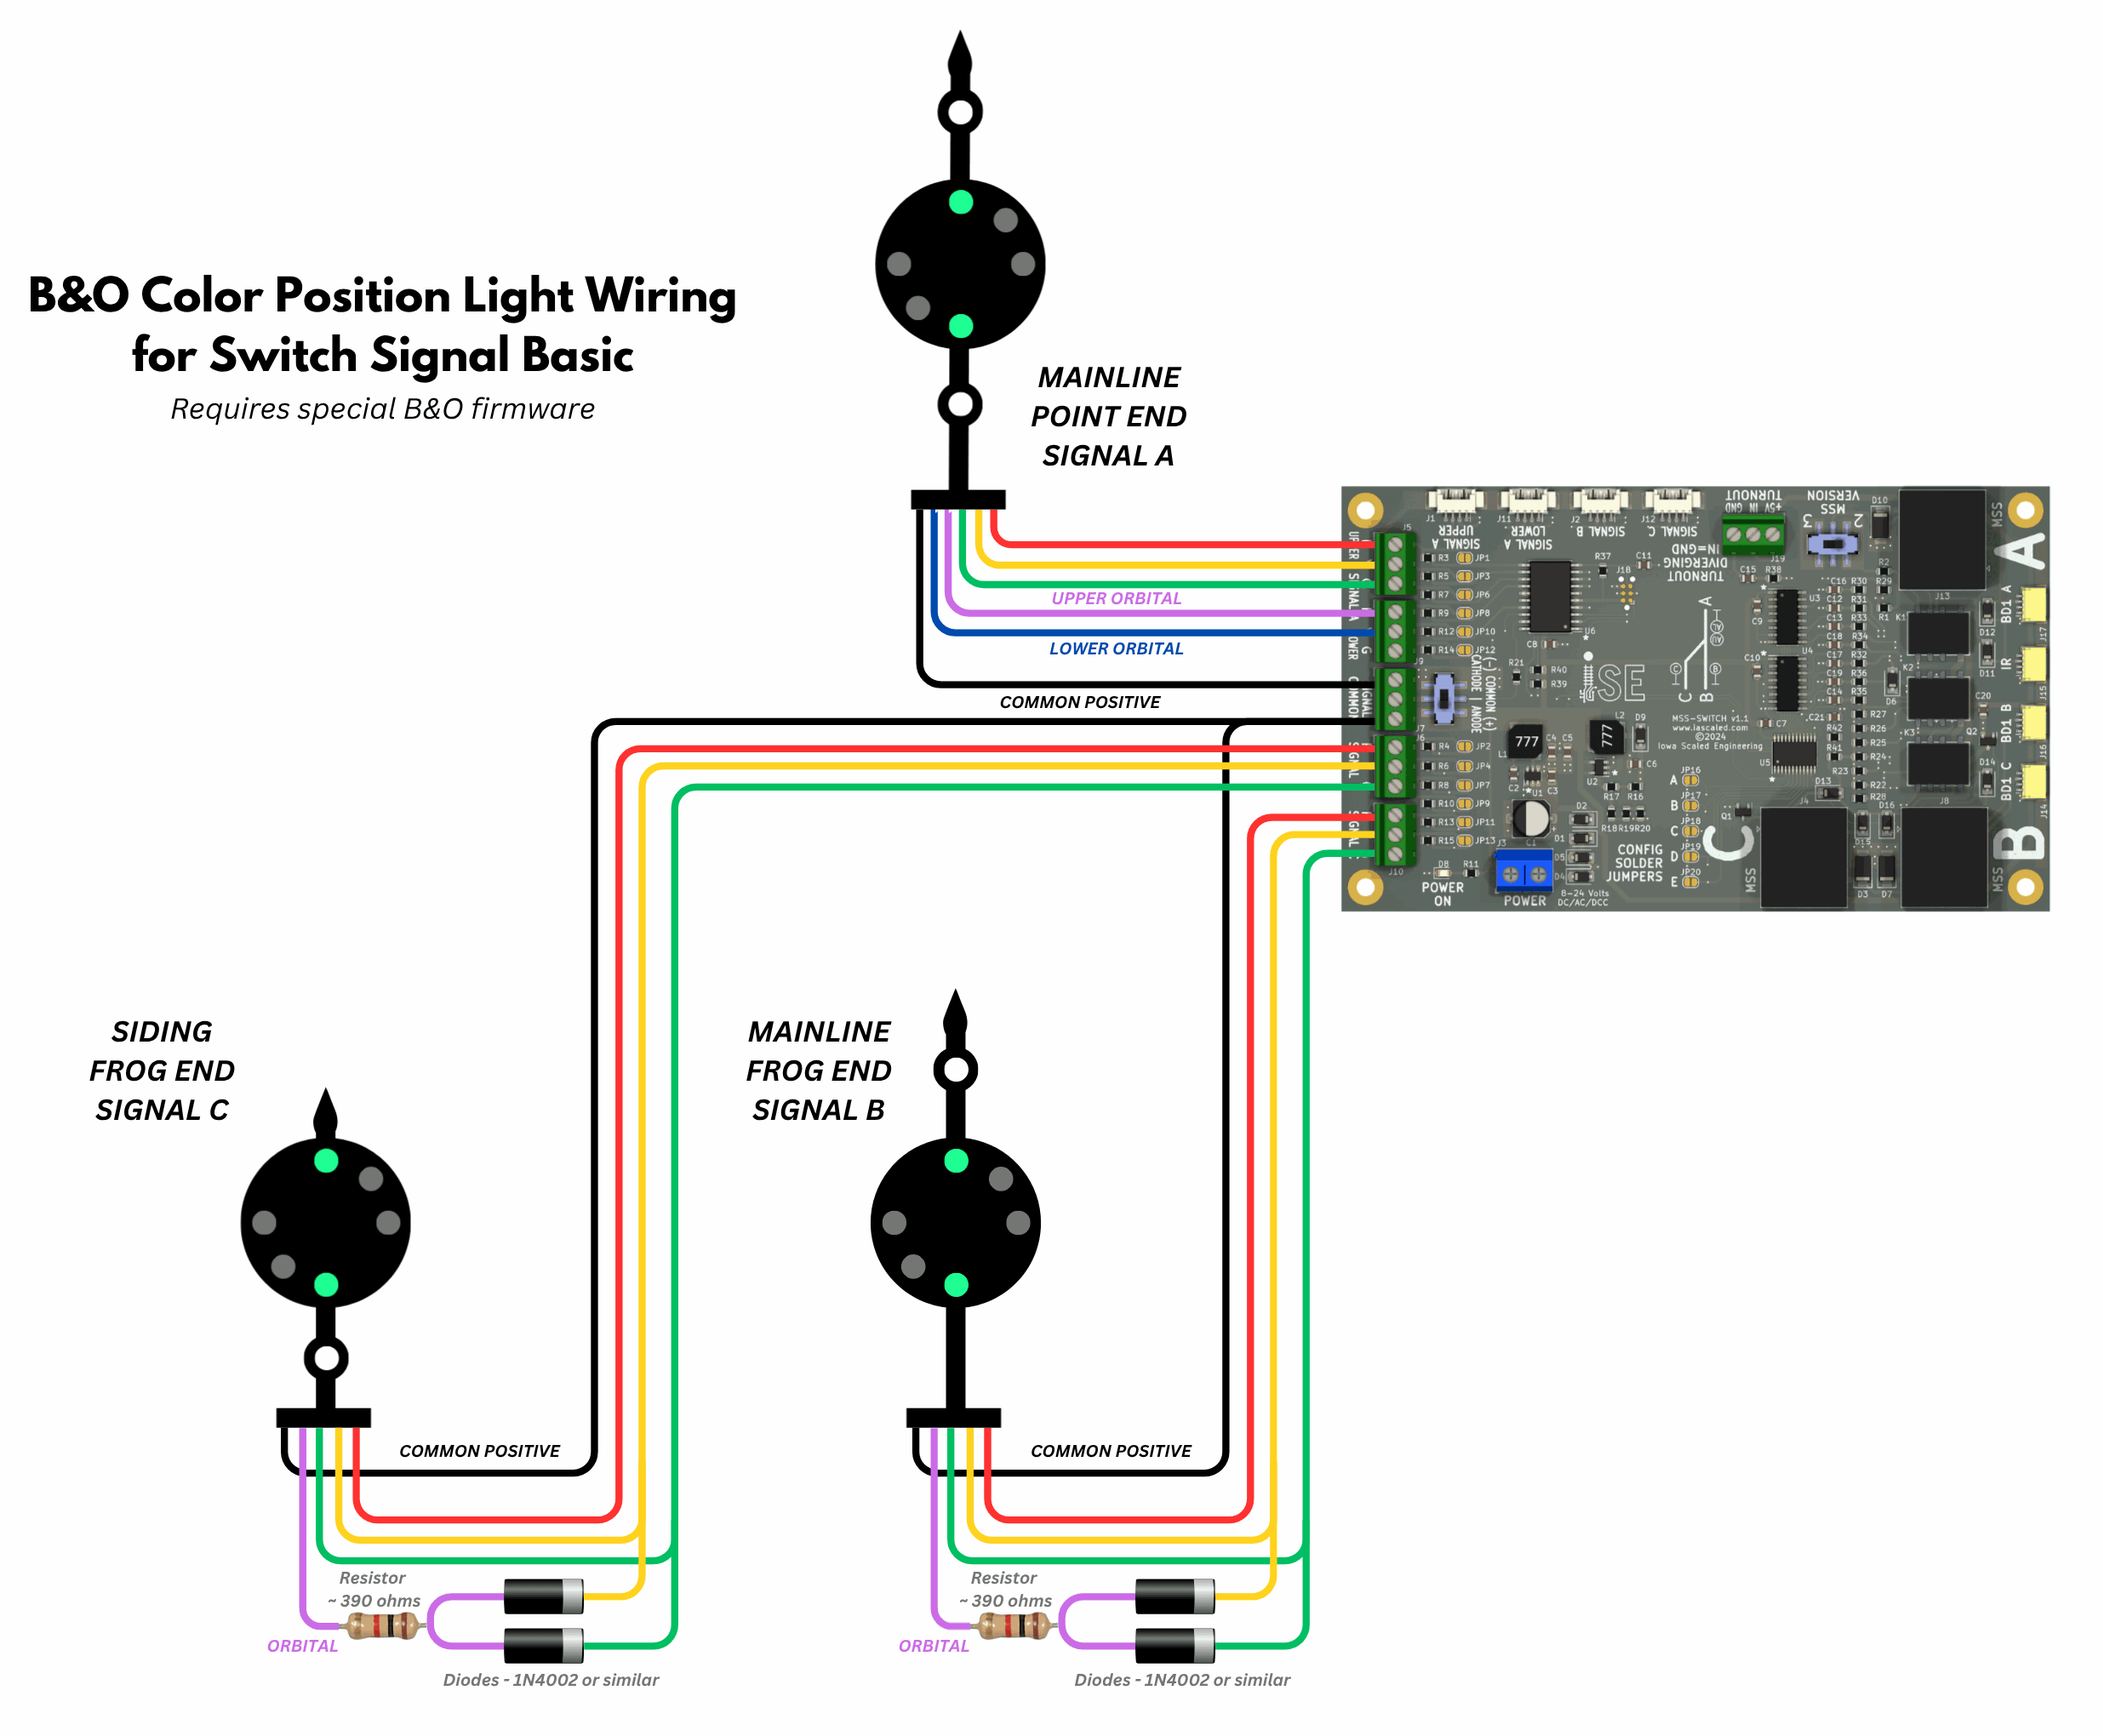
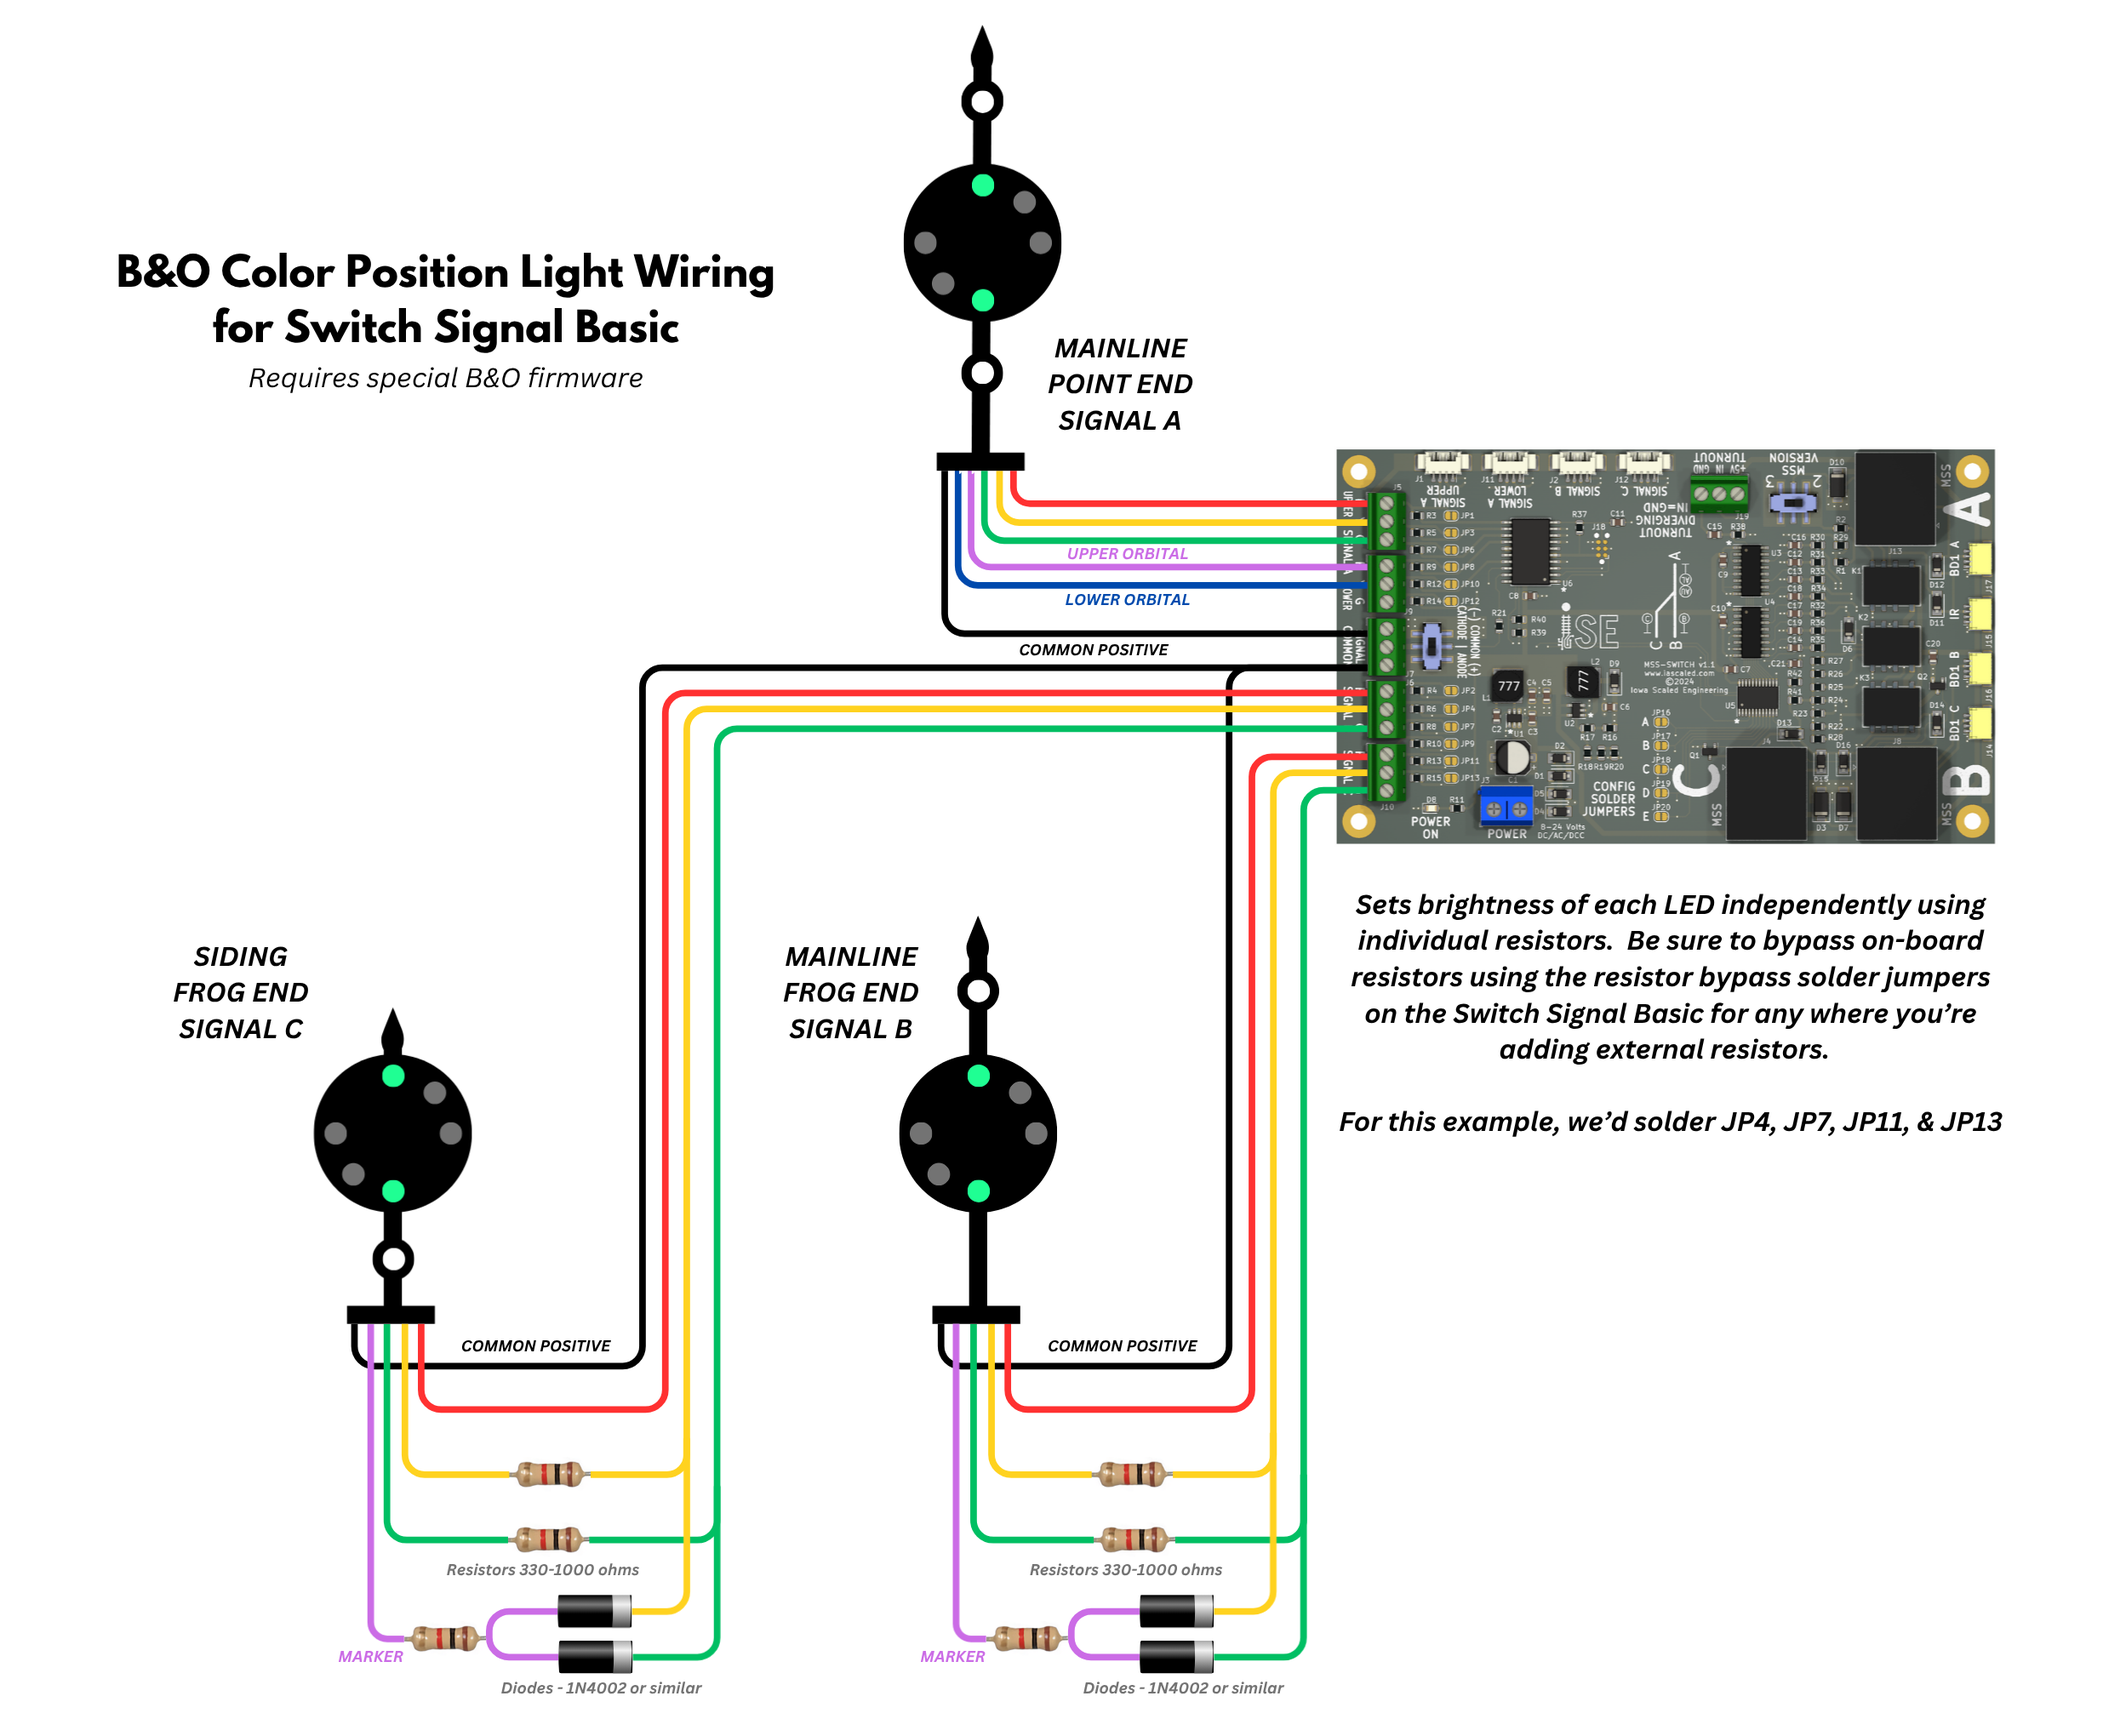
CPL cleanup

diff --git a/docs/SimpleSig/Articles/bo-cpls.md b/docs/SimpleSig/Articles/bo-cpls.md
@@ -7,7 +7,7 @@ title: B&O Color Position Lights
 
 [![A B&O Color Position Light](img-bocpl/bo-cpl.jpg){ align="right" width="300"}](img-bocpl/bo-cpl.jpg)
 
-Western US and Canadian railroads tended to use fairly consistent signaling.  The individual indications for a set of might be different, but in general the actual signal technology was relatively common - one to three signal heads on a mast, each displaying a color, and the stack-up of colors translated into a rule the crew needed to follow.  
+Western US and Canadian railroads tended to use fairly consistent signaling.  The individual indications for a road might be a little different from the next, but the actual signal technology was relatively common among them - one to three signal heads on a mast, each displaying a color, and the stack-up of colors translated into a rule the crew needed to follow.  
 
 However, the eastern US brought forth three unusual systems, each of which used heads with multiple lights on and around a target, known as a "position light signal" for obvious reasons.  Multiple lights were arranged vertically, horizontally, or on diagonals to emulate the physical orientation of semaphore blades they were intended to replace.  Multiple lamps forming up a single aspect also provided redundancy in an era where bulbs were relatively dim and had short operational lives.
 
@@ -15,7 +15,9 @@ The first of these position light signals came from the Pennsylvania in 1915, wh
 
 Being the last major system developed, the CPL system was the best considered and easiest to understand (at least in the author's opinion).  It felt engineered to the task and stood the test of decades of use with little change, as opposed to other signal systems which kept sprouting more heads and had new combinations of aspects tacked on to tackle unanticipated problems.  The CPL system communicated both the clear blocks ahead and speed expectations to the crew in a single signal head, and could handle everything from simple single track to complex interlockings with all manner of crossovers and diverging routes.
 
-Today, only a very small number of these amazing signals remain.  The few that survive in service are largely scattered around Ohio, with a few survivors across southern Indiana.  Nearly all of them have been upgraded to modern color light signals, with one or more of the familiar 3-light vertical heads stacked on a mast.  
+B&O color position lights stretched across the B&O system, from New York to Chicago and St. Louis.  Some even found their way on to other railroads.  The B&O controlled the Chicago & Alton from 1931 to 1947, and as such applied their own engineering standards.  CPLs were installed along the route from Chicago to St. Louis, and as the line changed hands over the years, the signals worked their way on to subsequent owners - GM&O, Illinois Central, Southern Pacific, and finally Union Pacific.  
+
+Today, only a very small number of these amazing signals remain.  Those that survive in service are largely scattered around Ohio, with a few more survivors across southern Indiana.  Nearly all of them have been upgraded to modern color light signals, with one or more of the familiar 3-light vertical heads stacked on a mast.  The few that remain are certainly on borrowed time, so if you see one, appreciate it while you can!
 
 ## The Prototype
 
@@ -25,9 +27,9 @@ The B&O CPL consists of a single head, and that head may be surrounded by up to 
 
 The main target shows how many blocks ahead are safe to occupy.  The B&O system is purely a three indication system, meaning you have one block of warning before a stop indication.  It didn't use any sort of equivalent for "advance approach" for a second block of warning.  There is a medium clear - an aspect commonly used as a second block of warning on eastern US roads - but the best I can tell, the B&O didn't use it that way.  
 
-Two red lights arranged horizontally means stop, the next block is not clear.  Two yellow lights on a diagonal from lower left to upper right means one block ahead is clear to occupy.  Two green lights horizontally means that two or more blocks ahead are clear.  
+Two red lights arranged horizontally means stop, the next block is not clear.  Two yellow lights on a diagonal from lower left to upper right means one block ahead is clear to occupy.  Two green lights vertically means that two or more blocks ahead are clear.  
 
-Some signals include a second diagonal aspect using lunar lights from upper left to lower right to indicate restricting - pass signal prepared to stop in half your sight distance, because an unknown amount of track ahead is clear.  This would be used when exiting signaled track, such as entering a yard or unsignaled branch, or in cases where you wanted 
+Some signals include a second diagonal aspect using lunar lights from upper left to lower right to indicate restricting - pass signal prepared to stop in half your sight distance, because an unknown amount of track ahead is clear.  This would be used when exiting signaled track, such as entering a yard or unsignaled branch.
 
 ### The Marker Lights
 
@@ -75,11 +77,11 @@ Could we just apply constant power to the upper marker and call it good?  Maybe.
 
 There's two options to do it better.
 
-* **Option 1 - Block Signal Basic with Diodes**  This is the cheap way.  You can use a good old Block Signal Basic for block boundaries without issue.  Using two diodes and another resistor, you can make the upper marker come on any time the green or yellow aspects are activated.  Any old power diodes will do - a common 1N400x (where x is 1-7) or 1N914 will work fine.  For the resistor, I would start with 390 ohms, but you may have to go up or down to get the brightness right.   If you want to light the orbit
+* **Option 1 - Block Signal Basic with Diodes**  This is the cheap way.  You can use a good old Block Signal Basic for block boundaries without issue.  Using two diodes and three resistors, you can make the upper marker come on any time the green or yellow aspects are activated.  Any old power diodes will do - a common 1N400x (where x is 1-7) or 1N914 will work fine.  For the resistors, I would start with 330 ohms, since that's what's on the board, but you may have to go up get the brightness right.   If you want to light the marker when the signal is red as well, add a third diode and resistor to the red line.  ***Be sure to only solder jumper the red/yellow/green lines where you're adding external resistors, so that you bypass the on-board resistors!***
 
 [![Wiring Block Signal Basic to CPLs](img-bocpl/bsb-bo-cpls.png)](img-bocpl/bsb-bo-cpls.png)
 
-* **Option 2 - Block Signal Advanced** This is the more flexible way.  Use the upper head red/yellow/green wires to drive the three aspects of the main target.  Then use the extra outputs - normally there for the lower head - to drive one or more markers.  Make a note of which lower head "color" drives which marker and use the module's programmability to turn on those "colors" as needed.  For example, if the lower head yellow output is connected to the high center marker, make the lower head yellow for every MSS indication except top.  Or, if you have a signal on approach to a siding like the examples above, maybe the lower head red output is connected to the upper left marker.  In that case, turn the lower head to "red" for cases where you get an approach diverging indication.
+* **Option 2 - Block Signal Advanced** This is the more flexible way.  Use the upper head red/yellow/green wires to drive the three aspects of the main target.  Then use the extra outputs - normally there for the lower head - to drive one or more markers.  Make a note of which lower head "color" drives which marker and use the module's programmability to turn on those "colors" as needed.  For example, if the lower head yellow output is connected to the high center marker, make the lower head yellow for every MSS indication except stop.  Or, if you have a signal on approach to a siding like the examples above, maybe the lower head red output is connected to the upper left marker.  In that case, turn the lower head to "red" for cases where you get an approach diverging indication.
 
 [![Wiring Block Signal Advanced to CPLs](img-bocpl/bsa-bo-cpls.png)](img-bocpl/bsa-bo-cpls.png)
 
@@ -87,7 +89,7 @@ There's two options to do it better.
 
 In general, bigger signaled interlockings, such as would be covered by the various Block Signal Pro configurations, should be fine.  Much like option 2 above, the lower head outputs can be used to drive markers and reconfigured by the user to meet their needs.  
 
-The Switch Signal Basic, which is designed to be our (relatively) low cost siding end module, needs a little more work.  Steering diodes and resistors, like we used above, can work fine for the two signals at the frog end of the switch.  There's no clean way to handle the high and lower marker lights on the point end mast, however.  One needs to be activated when the switch is thrown diverging and not showing stop, and one needs to be activated when the switch is lined normal and not showing stop.  Like on the Block Signal Advanced, we can repurpose the lower head lines to do so, but there's no way for the user to reconfigure the aspects.  For right now, this requires a special version of firmware, but we're happy to program that on for you.  Just contact us.
+The Switch Signal Basic, which is designed to be our (relatively) low cost siding end module, needs a little more work.  Steering diodes and resistors, like we used above, can work fine for the two signals at the frog end of the switch.  There's no clean way to handle the high and lower marker lights on the point end mast, however.  One needs to be activated when the switch is thrown diverging and not showing stop, and one needs to be activated when the switch is lined normal and not showing stop.  Like on the Block Signal Advanced, we can repurpose the lower head lines to do so, but there's no way for the user to reconfigure the aspects.  For right now, this requires a special version of firmware, but we're happy to program that for you.  Just contact us.
 
 [![Connecting a SimpleSig Switch Signal Basic to CPLs](img-bocpl/bo-switch-signal.png)](img-bocpl/bo-switch-signal.png)
 
@@ -108,4 +110,4 @@ In my opinion, it's a minor limitation, but these little nuances may annoy some 
 [![Recommended Aspects for CPLs with SimpleSig](img-bocpl/bo-mss-aspects.png)](img-bocpl/bo-mss-aspects.png)
 
 !!! info A Caveat
-    I am not a professional signal engineer, nor a B&O history expert.  Nor did I grow up remotely close to any color position lights - or any position lights, for that matter.  I'm solidly a western railfan and modeler.  But I am a pretty serious amateur signal nerd, and I believe what's below is accurate to the best of my research ability.  If you do have additional expertise in B&O CPL systems, by all means, please send additional information.
+    I am not a professional signal engineer, nor a B&O history expert.  Nor did I grow up remotely close to any color position lights - or any form of position lights, for that matter.  I'm solidly a western railfan and modeler.  But I am a pretty serious amateur signal nerd, and I believe what's above is accurate to the best of my research ability.  If you do have additional expertise in B&O CPL systems, by all means, please send additional information to support@iascaled.com.
